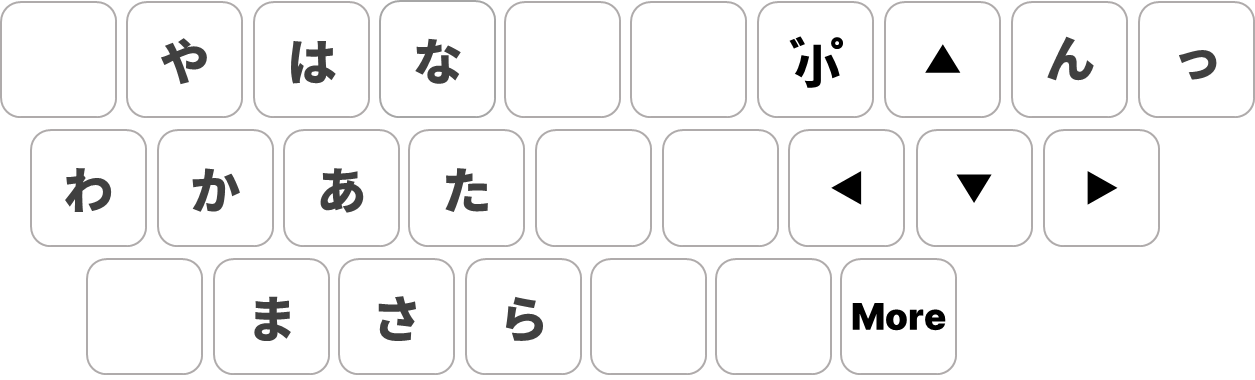
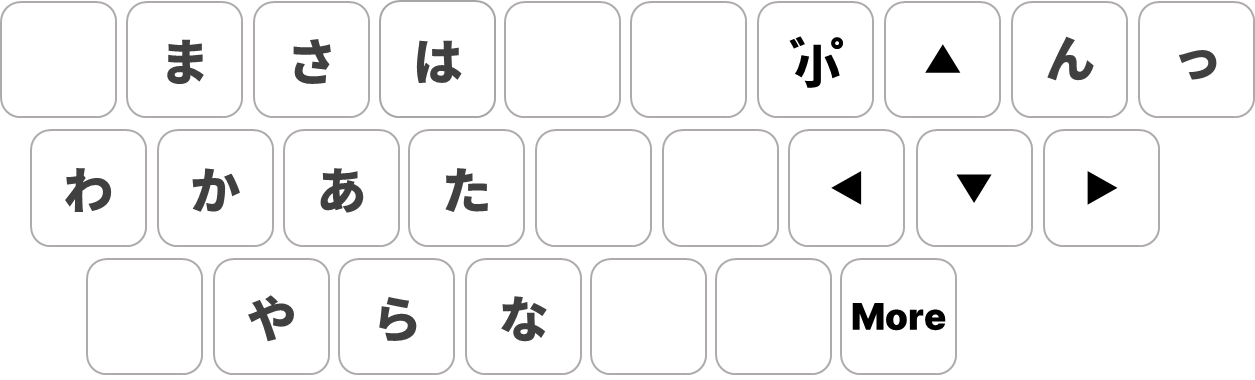
Add files via upload

diff --git a/index.html b/index.html
@@ -3,7 +3,7 @@
 <head>
     <meta charset="UTF-8">
     <meta name="viewport" content="width=device-width, initial-scale=1.0">
-    <title>ヤハキー</title>
+    <title>ヤリナ</title>
     <script src="https://cdn.tailwindcss.com"></script>
     <link rel="icon" href="images/logo.png" type="image/png">
 <style>
@@ -88,7 +88,7 @@
     </picture>
     <div class="absolute leading-snug hero-copy">
         <p class="hero-line-lead">私たちはフリック世代。</p>
-        <p class="hero-line-main">ヤハに変えて勝る。</p>
+        <p class="hero-line-main">PCではヤリナ!</p>
         <p class="hero-subtitle"></p>
     </div>
 </section>
@@ -100,10 +100,10 @@
             <span class="inline-block keep-phrase">右手でフリック</span>
         </p>
         <h1 class="text-[3.75rem] md:text-[100px] font-black mt-2 md:mt-4 leading-none md:leading-[1.2] text-gray-800 whitespace-nowrap" translate="no">
-            <span class="text-blue-600">ヤハキー</span>
+            <span class="text-blue-600">ヤリナ</span>
         </h1>
         <div class="mt-8 md:mt-12">
-            <img src="images/pc.png" alt="ヤハキーのキー配列" class="mx-auto w-full max-w-xl drop-shadow-2xl rounded-xl">
+            <img src="images/pc.png" alt="ヤリナのキー配列" class="mx-auto w-full max-w-xl drop-shadow-2xl rounded-xl">
         </div>
     </div>
 </section>
@@ -157,7 +157,7 @@
 
         <!-- PC Card -->
         <div class="p-6 md:p-10 rounded-3xl bg-white border border-gray-100 shadow-xl flex flex-col items-center relative overflow-hidden">
-            <h4 class="text-xl font-bold mb-6 text-gray-800">ヤハキー Demo</h4>
+            <h4 class="text-xl font-bold mb-6 text-gray-800">ヤリナ Demo</h4>
             <div class="h-32 flex items-center mb-8">
                 <img src="images/pc.png" alt="PC demo" class="max-h-full w-auto object-contain grayscale hover:grayscale-0 transition duration-500">
             </div>
@@ -167,11 +167,11 @@
             <div id="pc-overlay"
                  class="absolute inset-0 rounded-3xl flex md:hidden flex-col items-center justify-center gap-3 px-6"
                  style="background:rgba(255,255,255,0.97); backdrop-filter:blur(4px);">
-                <h4 class="text-xl font-bold text-gray-800">ヤハキー Demo</h4>
+                <h4 class="text-xl font-bold text-gray-800">ヤリナ Demo</h4>
                 <span class="text-5xl">🖥</span>
                 <p class="text-base font-bold text-gray-700">この体験はPC専用です</p>
                 <p class="text-sm text-gray-500 leading-relaxed">
-                    パソコンのブラウザで<br><span class="keep-phrase">yahakey.com</span> を開いて<br>お試しください。
+                    パソコンのブラウザで<br><span class="keep-phrase">oshiflick.com</span> を開いて<br>お試しください。
                 </p>
             </div>
         </div>
@@ -182,7 +182,7 @@
 
 
     <footer class="py-12 border-t border-gray-100 text-center text-gray-400 text-sm">
-        <p>© 2026 YAHAKEY All rights reserved.</p>
+        <p>© 2026 YARINA All rights reserved.</p>
     </footer>
 
 </body>

diff --git a/tutorial.html b/tutorial.html
@@ -3,7 +3,7 @@
 <head>
 <meta charset="utf-8" />
 <meta name="viewport" content="width=device-width, initial-scale=1.0" />
-<title>ヤハキー</title>
+<title>ヤリナ</title>
 <link href="https://fonts.googleapis.com/css2?family=Noto+Sans+JP:wght@400;700;900&family=Noto+Sans+KR:wght@400;700;900&display=swap" rel="stylesheet">
 <link rel="icon" href="images/logo.png" type="image/png">
 <style>
@@ -177,8 +177,9 @@
 
 <script>
 /* ══════════════════════════════════════════════════════════════════════
-   ヤハキー(Yahakey) — 왼손 텐키 + 오른손 플릭키 일본어 가나 입력 튜토리얼
-   배열 2026-09-07 개편: 1행 や/は/な · 2행 わ/か/あ/た · 3행 ま/さ/ら ("ヤハに変えてまさる")
+   ヤリナ(Yarina) — 왼손 텐키 + 오른손 플릭키 일본어 가나 입력 튜토리얼
+   배열 2026-09-11 개편: 1행 ま/さ/は · 2행 わ/か/あ/た · 3행 や/ら/な
+     ("わは脇に、まずは / 若いと / ヤリナ!")
    좌표는 모두 images/bg_tutorial.png 실측 기준 % (키 그리드는 이전과 동일, 가나 라벨만 이동).
    bg_tutorial_blind.png도 키 배열이 사실상 동일해 같은 좌표를 공유한다.
    ────────────────────────────────────────────────────────────────────── */
@@ -208,7 +209,7 @@ const GROUPS = {
   'ら': ['ら','り','る','れ','ろ'],
   'わ': ['わ','を','ん','ー','を'],   // ▼하=を (.exe와 동일: わ행은 5열도 を)
 };
-const GROUP_KEYS = { w:'や', e:'は', r:'な', a:'わ', s:'か', d:'あ', f:'た', x:'ま', c:'さ', v:'ら' };
+const GROUP_KEYS = { w:'ま', e:'さ', r:'は', a:'わ', s:'か', d:'あ', f:'た', x:'や', c:'ら', v:'な' };
 const FLICK_KEYS = { j:1, i:2, l:3, k:4 };   // 좌1 상2 우3 하4 (중앙0)
 const STANDALONE = { o:'ん', p:'っ' };
 
@@ -423,7 +424,7 @@ let mode = 'popup';
 
 const INTRO = [
   `左手エリアには<span class="k">テンキー</span>があり、\n右手エリアには<span class="k">フリックキー</span>があります。\nフリックの方向はスマートフォンと同じです。`,
-  `テンキー配列はこう覚えると簡単です。\nわは脇に、\n1行目 │ <span class="k">ヤハに</span> 💡\n2行目 │ <span class="k">変えて</span> ⌨\n3行目 │ <span class="k">まさる</span> 👍`,
+  `テンキー配列はこう覚えると簡単です。\nわは脇に、\n1行目 │ <span class="k">まずは </span> \n2行目 │ <span class="k">若いと –</span> \n3行目 │ <span class="k">ヤリナ!</span> `,
   `それでは今から<span class="k">「こんにちは」</span>を\n入力してみましょう。\n矢印に従って押してみてください。`,
 ];
 let introIdx = 0;

diff --git a/try.html b/try.html
@@ -2,7 +2,7 @@
 <html lang="ja">
 <head>
   <meta charset="UTF-8">
-  <title>ヤハキー</title>
+  <title>ヤリナ</title>
   <link rel="icon" href="images/logo.png" type="image/png">
   <style>
     body {
@@ -139,10 +139,10 @@
 
 
 
-  <h1>ヤハキー体験</h1>
+  <h1>ヤリナ体験</h1>
   <div class="container">
     <div class="text">
-      <p>ヤハキー体験場へようこそ。</p>
+      <p>ヤリナ体験場へようこそ。</p>
       <p>
         あなたは今日からタッチタイピングができるようになります。
       </p>
@@ -176,7 +176,7 @@
       </div>
       <button class="btn btn-orange" onclick="location.href='tutorial.html'">
         <img src="images/flick.png" alt="튜토리얼 아이콘">
-        ヤハキー体験
+        ヤリナ体験
       </button>
     </div>
 

diff --git a/mole.html b/mole.html
@@ -72,7 +72,7 @@
   <div id="successOverlay">
     <div class="slideCard">
       <p style="font-weight:700;">おめでとうございます！</p>
-      <p>もう指のたどたどしい一歩を踏み出せましたね！<br>「確認」ボタンを押して、ヤハキーを学んでみましょう。</p>
+      <p>もう指のたどたどしい一歩を踏み出せましたね！<br>「確認」ボタンを押して、ヤリナを学んでみましょう。</p>
       <button id="goDemoBtn">確認</button>
     </div>
   </div>
